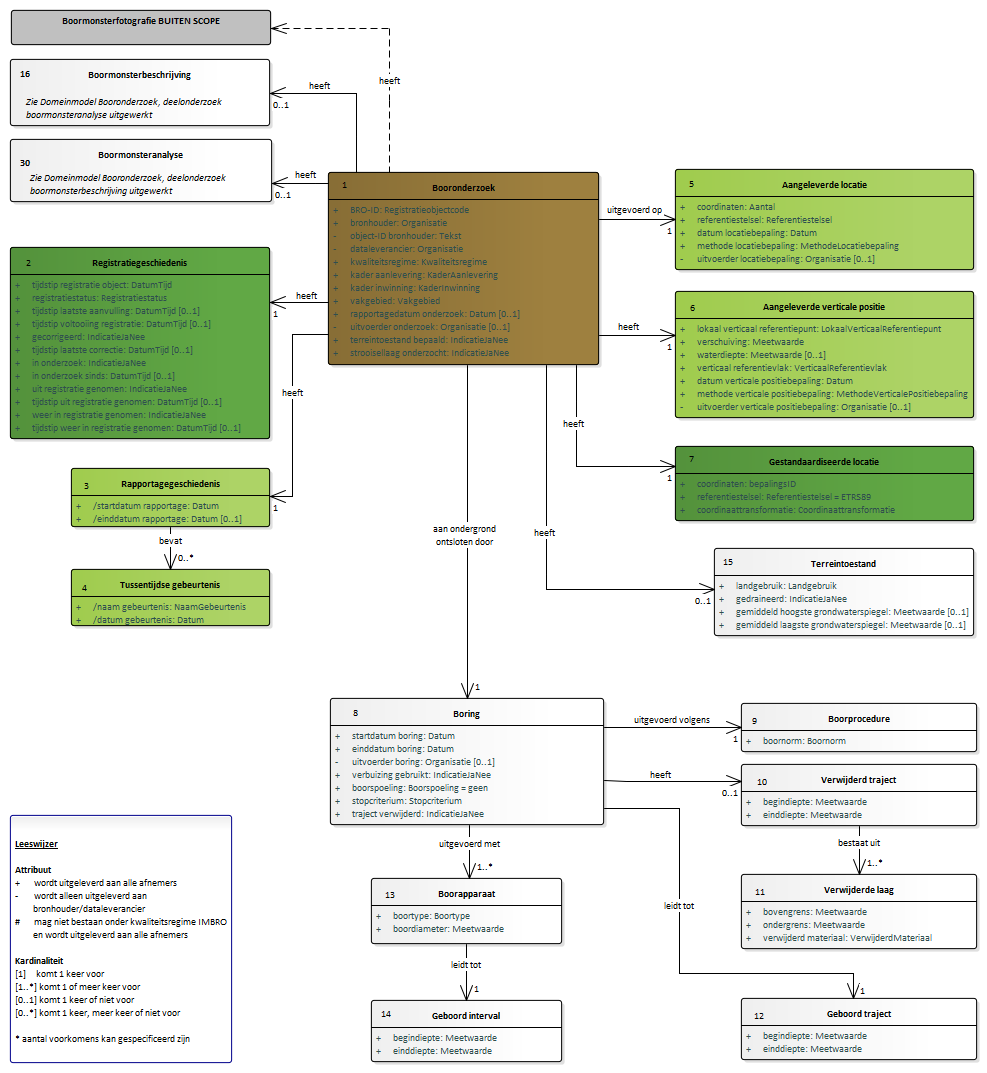
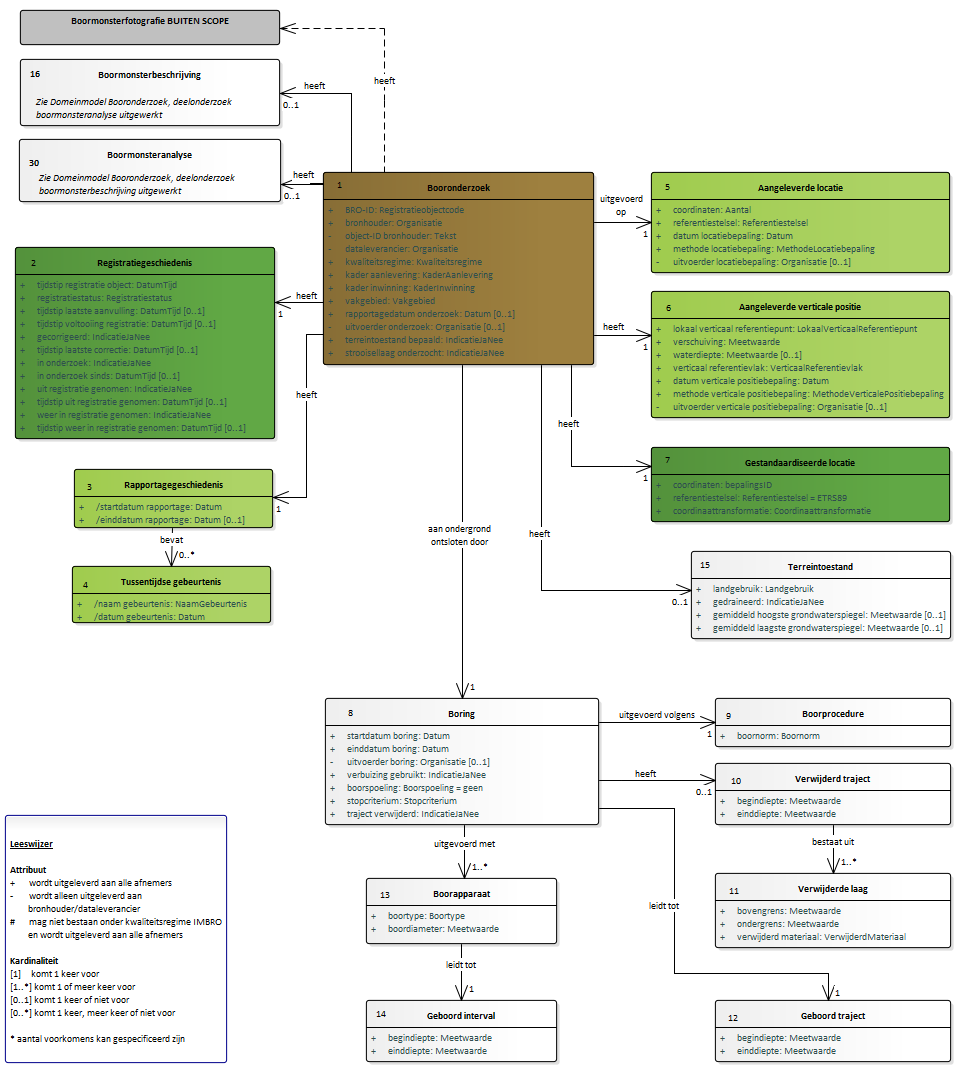
Conceptualmodel-BHR-Pconceptueel-MIM-1.9127november2019-1-20200214-20200304-143609

diff --git a/data/BHR-P-cat.msword.html b/data/BHR-P-cat.msword.html
@@ -13,7 +13,7 @@
    <body>
       <p>Conceptual model/BHR-P conceptueel - MIM/20200214</p>
       <p>Imvertor: 1.59.2</p>
-      <p>Model release: Conceptualmodel-BHR-Pconceptueel-MIM-1.9127november2019-1-20200214-20200304-131533</p>
+      <p>Model release: Conceptualmodel-BHR-Pconceptueel-MIM-1.9127november2019-1-20200214-20200304-143609</p>
       <hr>
       <section>
          <h1>Artikel 1 Definitie van registratieobject, entiteiten en attributen</h1>
@@ -70,16 +70,16 @@
             <h2>Het domeinmodel</h2>
             <section id="">
                <div class="imageinfo overview"><img src="Images/EAID_1C3500F1_E5BB_47e3_9CE1_BB98873D797A.png" usemap="#imagemap-EAID_1C3500F1_E5BB_47e3_9CE1_BB98873D797A" alt="Diagram "><map name="imagemap-EAID_1C3500F1_E5BB_47e3_9CE1_BB98873D797A">
-                     <area shape="rect" alt="Bodemclassificatie" coords="667,11,966,245" href="#graph_EAID_CFE14268_F08B_4a20_BB74_3FEA8BBA0438">
+                     <area shape="rect" alt="Bodemclassificatie" coords="667,11,957,245" href="#graph_EAID_CFE14268_F08B_4a20_BB74_3FEA8BBA0438">
                      <area shape="rect" alt="Zuurgraad bodemlaag" coords="586,560,748,622" href="#graph_EAID_20864613_7F9B_4610_9180_7A919D60C45B">
-                     <area shape="rect" alt="Verdeling fijne fractie" coords="830,724,967,804" href="#graph_EAID_60B04447_7B86_410e_B20F_D3CD115886D1">
+                     <area shape="rect" alt="Verdeling fijne fractie" coords="820,724,957,804" href="#graph_EAID_60B04447_7B86_410e_B20F_D3CD115886D1">
                      <area shape="rect" alt="Onvolledige fractiespecificatie" coords="587,822,790,912" href="#graph_EAID_2882FB1B_C7C2_467c_AEBB_238330EEBFC0">
-                     <area shape="rect" alt="Fractieverdeling" coords="587,720,790,808" href="#graph_EAID_EF53B14C_3668_4ef9_934A_1FD39F3E0662">
+                     <area shape="rect" alt="Fractieverdeling" coords="587,720,777,808" href="#graph_EAID_EF53B14C_3668_4ef9_934A_1FD39F3E0662">
                      <area shape="rect" alt="Grondsoort" coords="248,721,542,912" href="#graph_EAID_6335A71B_82D0_48a7_B08B_E14E5233FFFC">
                      <area shape="rect" alt="Laagcomponent" coords="248,560,542,661" href="#graph_EAID_972B648E_F4A1_4a70_92B9_3383A5DB7706">
-                     <area shape="rect" alt="Vast gesteentelaag" coords="667,416,966,504" href="#graph_EAID_53169F7B_05E8_438f_A558_2A98EA6E3BDE">
+                     <area shape="rect" alt="Vast gesteentelaag" coords="667,416,957,504" href="#graph_EAID_53169F7B_05E8_438f_A558_2A98EA6E3BDE">
                      <area shape="rect" alt="Bodemlaag" coords="247,411,543,499" href="#graph_EAID_BAEFD725_0B6B_4084_AB08_BC42F75343BC">
-                     <area shape="rect" alt="Bijzonderheid onderin" coords="732,299,901,359" href="#graph_EAID_4B2108B5_2549_4222_B1C3_253785E10046">
+                     <area shape="rect" alt="Bijzonderheid onderin" coords="728,299,897,359" href="#graph_EAID_4B2108B5_2549_4222_B1C3_253785E10046">
                      <area shape="rect" alt="Strooisellaag" coords="10,411,198,511" href="#graph_EAID_53792607_43A9_402c_BCFF_E9A10589D199">
                      <area shape="rect" alt="Boorprofiel" coords="247,190,544,304" href="#graph_EAID_E066634E_A30B_4f31_9447_9ADBF0419CB4">
                      <area shape="rect" alt="Boormonsterbeschrijving" coords="247,10,541,125" href="#graph_EAID_697C344A_A1CE_4e19_A1E8_D608CAB8F0B2">
@@ -96,23 +96,23 @@
                      <area shape="rect" alt="Onderzocht interval" coords="255,180,481,308" href="#graph_EAID_E03DABD7_D5A7_43b1_8E45_22FE722A3256"></map><p><b>Bodemkundige boormonsteranalyse deel 1</b></p>
                </div>
                <div class="imageinfo overview"><img src="Images/EAID_D6588CC3_0108_4b72_8419_F2C7022F9A9E.png" usemap="#imagemap-EAID_D6588CC3_0108_4b72_8419_F2C7022F9A9E" alt="Diagram "><map name="imagemap-EAID_D6588CC3_0108_4b72_8419_F2C7022F9A9E">
-                     <area shape="rect" alt="Gestandaardiseerde locatie" coords="675,446,974,521" href="#graph_EAID_4D17BE34_0DFD_4a20_9A39_F437E781D80F">
-                     <area shape="rect" alt="Aangeleverde verticale positie" coords="675,291,974,418" href="#graph_EAID_5B6EEAEE_FAAF_4ab9_9D33_709559A9E297">
-                     <area shape="rect" alt="Aangeleverde locatie" coords="675,169,974,270" href="#graph_EAID_C81072B6_E99D_435f_9E4C_B1D5FED530D4">
-                     <area shape="rect" alt="Geboord traject" coords="741,998,977,1060" href="#graph_EAID_BCE4FB50_EC8B_4ebc_BA2F_AED708915459">
-                     <area shape="rect" alt="Verwijderde laag" coords="741,874,977,949" href="#graph_EAID_4F931859_A209_48c8_95B4_EF48947342D4">
-                     <area shape="rect" alt="Verwijderd traject" coords="741,764,977,826" href="#graph_EAID_9CAAE4E0_1030_4145_8BA6_E7E82C1A81D3">
-                     <area shape="rect" alt="Boorprocedure" coords="741,703,977,752" href="#graph_EAID_BC5BEC9E_1CD9_400e_931D_D3328E315CAA">
-                     <area shape="rect" alt="Terreintoestand" coords="714,548,974,636" href="#graph_EAID_AF1FFED2_C283_48d3_BB6D_22F3F876045D">
-                     <area shape="rect" alt="Geboord interval" coords="371,1000,562,1062" href="#graph_EAID_7A51F6B2_4675_47d0_849C_BCE1853C65CF">
-                     <area shape="rect" alt="Boorapparaat" coords="371,878,562,944" href="#graph_EAID_F4D931C9_4668_4a29_94E7_347B9C7D4AFC">
-                     <area shape="rect" alt="Boring" coords="330,698,604,825" href="#graph_EAID_EEB4A074_34DE_4020_8995_D8081DCBBB6C">
-                     <area shape="rect" alt="Tussentijdse gebeurtenis" coords="71,569,270,626" href="#graph_EAID_648ED0D8_FACD_42e6_9C8A_648C6F5E0DA8">
-                     <area shape="rect" alt="Rapportagegeschiedenis" coords="71,468,270,527" href="#graph_EAID_6C31CE0B_20BC_4ca1_9BFA_C6D0EF8B7476">
-                     <area shape="rect" alt="Boormonsterbeschrijving" coords="10,59,270,126" href="#graph_EAID_697C344A_A1CE_4e19_A1E8_D608CAB8F0B2">
-                     <area shape="rect" alt="Registratiegeschiedenis" coords="10,247,270,439" href="#graph_EAID_8505883D_9F95_4151_9381_E70B2B7F19DE">
-                     <area shape="rect" alt="Boormonsteranalyse" coords="10,139,272,202" href="#graph_EAID_C497D0C8_A7FC_4280_82C3_3C866CAA23AB">
-                     <area shape="rect" alt="Booronderzoek" coords="328,172,599,365" href="#graph_EAID_767F438F_1014_47bc_BBDC_98606932693D"></map><p><b>Domeinmodel BRO Booronderzoek</b></p>
+                     <area shape="rect" alt="Gestandaardiseerde locatie" coords="651,447,950,522" href="#graph_EAID_4D17BE34_0DFD_4a20_9A39_F437E781D80F">
+                     <area shape="rect" alt="Aangeleverde verticale positie" coords="651,291,950,418" href="#graph_EAID_5B6EEAEE_FAAF_4ab9_9D33_709559A9E297">
+                     <area shape="rect" alt="Aangeleverde locatie" coords="651,172,950,273" href="#graph_EAID_C81072B6_E99D_435f_9E4C_B1D5FED530D4">
+                     <area shape="rect" alt="Geboord traject" coords="715,1000,951,1062" href="#graph_EAID_BCE4FB50_EC8B_4ebc_BA2F_AED708915459">
+                     <area shape="rect" alt="Verwijderde laag" coords="715,873,951,948" href="#graph_EAID_4F931859_A209_48c8_95B4_EF48947342D4">
+                     <area shape="rect" alt="Verwijderd traject" coords="715,763,951,825" href="#graph_EAID_9CAAE4E0_1030_4145_8BA6_E7E82C1A81D3">
+                     <area shape="rect" alt="Boorprocedure" coords="715,698,951,747" href="#graph_EAID_BC5BEC9E_1CD9_400e_931D_D3328E315CAA">
+                     <area shape="rect" alt="Terreintoestand" coords="691,551,951,639" href="#graph_EAID_AF1FFED2_C283_48d3_BB6D_22F3F876045D">
+                     <area shape="rect" alt="Geboord interval" coords="366,1000,557,1062" href="#graph_EAID_7A51F6B2_4675_47d0_849C_BCE1853C65CF">
+                     <area shape="rect" alt="Boorapparaat" coords="366,878,557,944" href="#graph_EAID_F4D931C9_4668_4a29_94E7_347B9C7D4AFC">
+                     <area shape="rect" alt="Boring" coords="325,698,599,825" href="#graph_EAID_EEB4A074_34DE_4020_8995_D8081DCBBB6C">
+                     <area shape="rect" alt="Tussentijdse gebeurtenis" coords="72,566,271,623" href="#graph_EAID_648ED0D8_FACD_42e6_9C8A_648C6F5E0DA8">
+                     <area shape="rect" alt="Rapportagegeschiedenis" coords="74,469,273,528" href="#graph_EAID_6C31CE0B_20BC_4ca1_9BFA_C6D0EF8B7476">
+                     <area shape="rect" alt="Boormonsterbeschrijving" coords="20,59,280,126" href="#graph_EAID_697C344A_A1CE_4e19_A1E8_D608CAB8F0B2">
+                     <area shape="rect" alt="Registratiegeschiedenis" coords="15,247,275,439" href="#graph_EAID_8505883D_9F95_4151_9381_E70B2B7F19DE">
+                     <area shape="rect" alt="Boormonsteranalyse" coords="19,139,281,202" href="#graph_EAID_C497D0C8_A7FC_4280_82C3_3C866CAA23AB">
+                     <area shape="rect" alt="Booronderzoek" coords="323,172,594,365" href="#graph_EAID_767F438F_1014_47bc_BBDC_98606932693D"></map><p><b>Domeinmodel BRO Booronderzoek</b></p>
                </div>
             </section>
          </section>
@@ -4202,7 +4202,7 @@
                   <h3>   Boormonsterbeschrijving</h3>
                   <div class="imageinfo "><img src="Images/EAID_570E460D_9557_493b_8062_1DC7786DB0BC.png" usemap="#imagemap-EAID_570E460D_9557_493b_8062_1DC7786DB0BC" alt="Diagram "><map name="imagemap-EAID_570E460D_9557_493b_8062_1DC7786DB0BC">
                         <area shape="rect" alt="Bodemclassificatie" coords="371,53,598,81" href="#graph_EAID_CFE14268_F08B_4a20_BB74_3FEA8BBA0438">
-                        <area shape="rect" alt="Boorprofiel" coords="36,170,262,198" href="#graph_EAID_E066634E_A30B_4f31_9447_9ADBF0419CB4">
+                        <area shape="rect" alt="Boorprofiel" coords="36,198,262,226" href="#graph_EAID_E066634E_A30B_4f31_9447_9ADBF0419CB4">
                         <area shape="rect" alt="Boormonsterbeschrijving" coords="10,10,288,124" href="#graph_EAID_697C344A_A1CE_4e19_A1E8_D608CAB8F0B2"></map><p><b></b></p>
                   </div>
                   <table style="width: 100%;">
@@ -18222,7 +18222,13 @@
                      <td>zuigerboor</td>
                      <td>✔</td>
                      <td>✔</td>
-                     <td></td>
+                     <td>
+                        
+                        <p>De zuigerboor is geschikt voor een waterverzadigde zandlagen en de diameter ervan
+                           varieert tussen 4 en 7 cm.
+                        </p>
+                        
+                     </td>
                   </tr>
                   <tr>
                      <td>onbekend</td>
